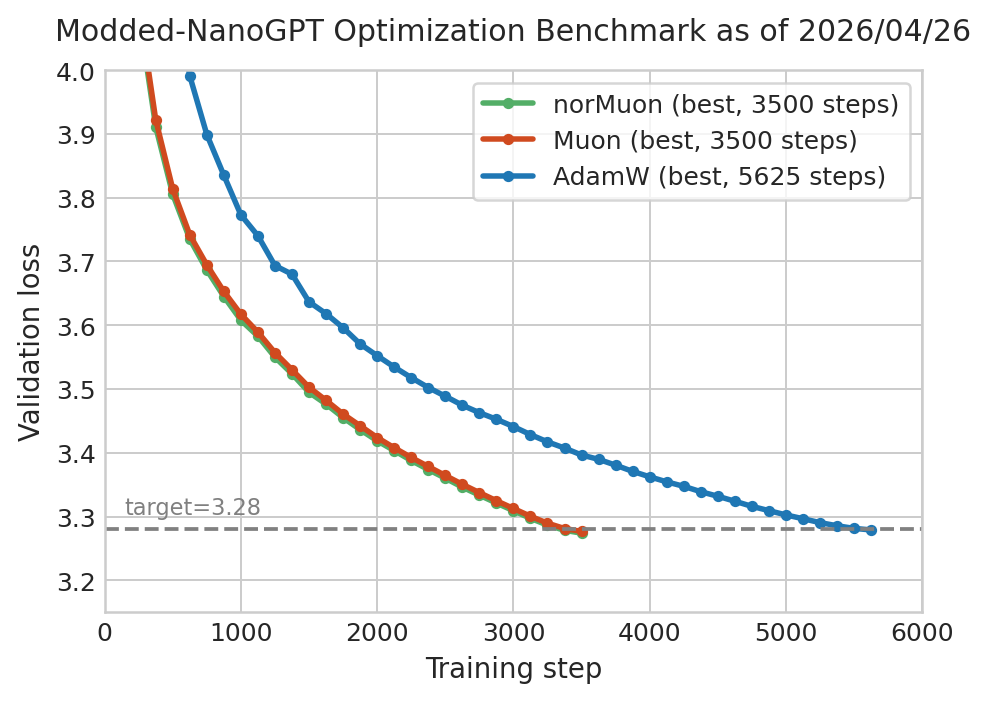
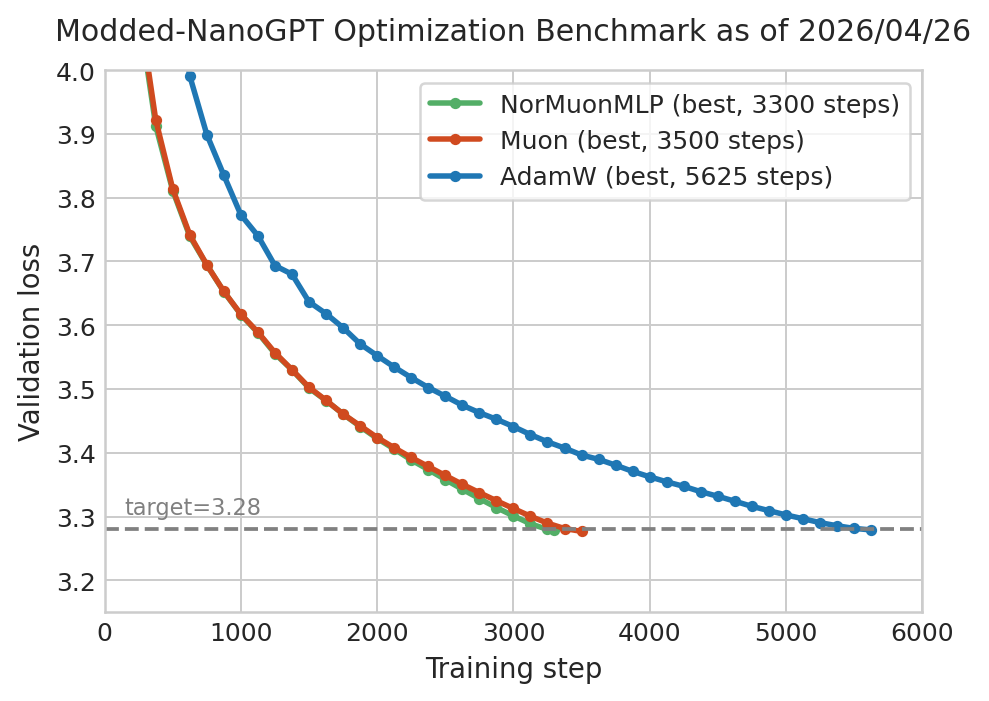
tuned WD,  3300 steps (-200)

diff --git a/records/track_3_optimization/train_gpt_simple.py b/records/track_3_optimization/train_gpt_simple.py
@@ -11,7 +11,6 @@ with open(sys.argv[0]) as f:
     code = f.read() # read the code of this file ASAP, for logging
 import uuid
 import time
-from contextlib import nullcontext
 from pathlib import Path
 
 import torch
@@ -19,11 +18,8 @@ from torch import Tensor, nn
 from torch.optim import AdamW
 import torch.nn.functional as F
 import torch.distributed as dist
-from dion import NorMuon
 
 
-os.environ["TORCHINDUCTOR_PERSISTENT_REDUCTIONS"] = "0"        
-os.environ["TORCHINDUCTOR_MIX_ORDER_REDUCTION"] = "0"
 ########################################
 #              Dataloader              #
 ########################################
@@ -247,65 +243,6 @@ def print0(s, console=False, log=True):
             with open(logfile, "a") as f:
                 print(s, file=f)
 
-class StepProfiler:
-    def __init__(self, start_step=20, end_step=25, trace_path="chrome_trace.json"):
-        assert start_step <= end_step
-        self.start_step = start_step
-        self.end_step = end_step
-        self.trace_path = trace_path
-        self.prof = None
-        self.active = False
-
-    def maybe_start(self, step):
-        if dist.get_rank() != 0 or step != self.start_step:
-            return
-        activities = [torch.profiler.ProfilerActivity.CPU]
-        if torch.cuda.is_available():
-            activities.append(torch.profiler.ProfilerActivity.CUDA)
-        self.prof = torch.profiler.profile(
-            activities=activities,
-            record_shapes=True,
-            with_stack=True,
-        )
-        self.prof.__enter__()
-        self.active = True
-        print0(f"Started PyTorch profiler at step {step}; exporting to {self.trace_path}", console=True)
-
-    def step_context(self, step):
-        if self.active and self.start_step <= step <= self.end_step:
-            return torch.profiler.record_function(f"train_step_{step}")
-        return nullcontext()
-
-    def maybe_stop(self, step):
-        if not self.active or step != self.end_step:
-            return
-        assert self.prof is not None
-        torch.cuda.synchronize()
-        self.prof.__exit__(None, None, None)
-        self.prof.export_chrome_trace(self.trace_path)
-        self.active = False
-        print0(f"Exported PyTorch profiler trace to {self.trace_path}", console=True)
-
-A100_BF16_PEAK_FLOPS = 312e12
-
-def estimate_flops_per_token(model, num_layers: int, num_heads: int, head_dim: int, seq_len: int):
-    num_params = sum(p.numel() for p in model.parameters())
-    return 6 * num_params + 12 * num_layers * num_heads * head_dim * seq_len
-
-def estimate_a100_mfu(completed_steps: int, elapsed_seconds: float, flops_per_token: int):
-    if completed_steps <= 0 or elapsed_seconds <= 0:
-        return 0.0
-    achieved_flops = completed_steps * batch_size * flops_per_token / elapsed_seconds
-    peak_flops = dist.get_world_size() * A100_BF16_PEAK_FLOPS
-    return 100 * achieved_flops / peak_flops
-
-def estimate_a100_step_mfu(step_seconds: float, flops_per_token: int):
-    if step_seconds <= 0:
-        return 0.0
-    achieved_flops = batch_size * flops_per_token / step_seconds
-    peak_flops = dist.get_world_size() * A100_BF16_PEAK_FLOPS
-    return 100 * achieved_flops / peak_flops
-
 # we begin by logging this file itself
 print0(code)
 print0("="*100)
@@ -321,8 +258,6 @@ val_inputs, val_targets = next(distributed_data_generator("data/fineweb10B/finew
 
 model = GPT(vocab_size=50304, num_layers=12, model_dim=768).cuda()
 model.compile(dynamic=False)
-flops_per_token = estimate_flops_per_token(model, num_layers=12, num_heads=6, head_dim=128, seq_len=1024)
-print0(f"Estimated FLOPs/token:{flops_per_token} using A100 BF16 peak:{A100_BF16_PEAK_FLOPS:.3e} FLOP/s per GPU")
 
 
 ########################################
@@ -336,16 +271,14 @@ train_steps = 3500
 for name, p in model.named_parameters():
     if "proj" in name:
         p.data.zero_()
+
 # create the optimizer(s)
 optimizer1 = AdamW([dict(params=[model.embed.weight], lr=0.3),
                     dict(params=[model.proj.weight], lr=1/320),
                     dict(params=[p for p in model.parameters() if p.ndim < 2], lr=0.01)],
                    betas=(0.8, 0.95), eps=1e-10, weight_decay=0, fused=True)
-optimizer2 = NorMuon([p for p in model.blocks.parameters() if p.ndim >= 2],
-                     distributed_mesh=dist.group.WORLD,
-                     lr=0.025, mu=0.95, muon_beta2=0.95, weight_decay=0.0125,
-                     nesterov=True, adjust_lr="spectral_norm",
-                     use_triton=True, use_polar_express=True)
+optimizer2 = Muon([p for p in model.blocks.parameters() if p.ndim >= 2],
+                  lr=0.025, weight_decay=0.0125)
 optimizers = [optimizer1, optimizer2]
 assert set(p for opt in optimizers for group in opt.param_groups
            for p in group["params"]) == set(model.parameters())
@@ -374,10 +307,8 @@ for p in model.parameters():
     dist.broadcast(p.detach(), 0)
 # start the clock
 training_time = 0
-last_training_time = 0
 dist.barrier()
 t0 = time.perf_counter()
-profiler = StepProfiler(start_step=20, end_step=25, trace_path="chrome_trace.json")
 for step in range(train_steps + 1):
 
     # --------------- VALIDATION SECTION -----------------
@@ -393,9 +324,8 @@ for step in range(train_steps + 1):
                 val_loss += model(val_inputs[i*mbs:(i+1)*mbs], val_targets[i*mbs:(i+1)*mbs])
         dist.all_reduce(val_loss, op=dist.ReduceOp.SUM)
         val_loss /= val_tokens
-        mfu = estimate_a100_mfu(step, training_time, flops_per_token)
         print0(f"step:{step}/{train_steps} val_loss:{val_loss:.5f} train_time:{training_time:.3f}s"
-               + f" step_avg:{1000*training_time/max(step, 1):.2f}ms mfu:{mfu:.2f}%", console=True)
+               + f" step_avg:{1000*training_time/max(step, 1):.2f}ms", console=True)
         model.train()
         # start the clock again
         dist.barrier()
@@ -405,29 +335,21 @@ for step in range(train_steps + 1):
         break
 
     # --------------- TRAINING SECTION -----------------
-    train_step = step + 1
-    profiler.maybe_start(train_step)
-    with profiler.step_context(train_step):
-        inputs, targets = next(train_loader)
-        # accumulate across microbatches in case we are running with fewer than 8 gpus
-        assert len(inputs) % mbs == 0
-        for i in range(len(inputs) // mbs):
-            model(inputs[i*mbs:(i+1)*mbs], targets[i*mbs:(i+1)*mbs]).backward()
-        for name, p in model.named_parameters():
-            assert p.grad is not None, name
-            dist.all_reduce(p.grad, op=dist.ReduceOp.SUM)
-        # set optimization hyperparameters and take a step
-        set_hparams(step)
-        for opt in optimizers:
-            opt.step()
-        model.zero_grad(set_to_none=True)
-    profiler.maybe_stop(train_step)
+    inputs, targets = next(train_loader)
+    # accumulate across microbatches in case we are running with fewer than 8 gpus
+    assert len(inputs) % mbs == 0
+    for i in range(len(inputs) // mbs):
+        model(inputs[i*mbs:(i+1)*mbs], targets[i*mbs:(i+1)*mbs]).backward()
+    for name, p in model.named_parameters():
+        assert p.grad is not None, name
+        dist.all_reduce(p.grad, op=dist.ReduceOp.SUM)
+    # set optimization hyperparameters and take a step
+    set_hparams(step)
+    for opt in optimizers:
+        opt.step()
+    model.zero_grad(set_to_none=True)
     approx_training_time = training_time + (time.perf_counter() - t0)
-    step_time = approx_training_time - last_training_time
-    last_training_time = approx_training_time
-    mfu = estimate_a100_step_mfu(step_time, flops_per_token)
     print0(f"step:{step+1}/{train_steps} train_time:{approx_training_time:.3f}s"
-           + f" step_avg:{1000*approx_training_time/(step + 1):.2f}ms"
-           + f" step_time:{1000*step_time:.2f}ms mfu:{mfu:.2f}%", console=True, log=False)
+           + f" step_avg:{1000*approx_training_time/(step + 1):.2f}ms", console=True, log=False)
 
 dist.destroy_process_group()

diff --git a/records/track_3_optimization/make_figure.py b/records/track_3_optimization/make_figure.py
@@ -2,7 +2,7 @@ import re
 import matplotlib.pyplot as plt
 
 runs = {
-    'norMuon (best, 3500 steps)': ('d8a057c6-8e2f-40d4-8330-eeaa933541d8', "#53ae67"),
+    'NorMuonMLP (best, 3300 steps)': ('e7b42521-c7d2-474f-ad20-7b77f1223bcc', "#53ae67"),
     'Muon (best, 3500 steps)': ('311d7833-8dfc-43ea-a55c-fd313a11c4a8', '#d04a1f'),
     'AdamW (best, 5625 steps)': ('a63a68d1-24aa-4a22-af9a-224e43209ea4', '#1f77b4'),
 }
